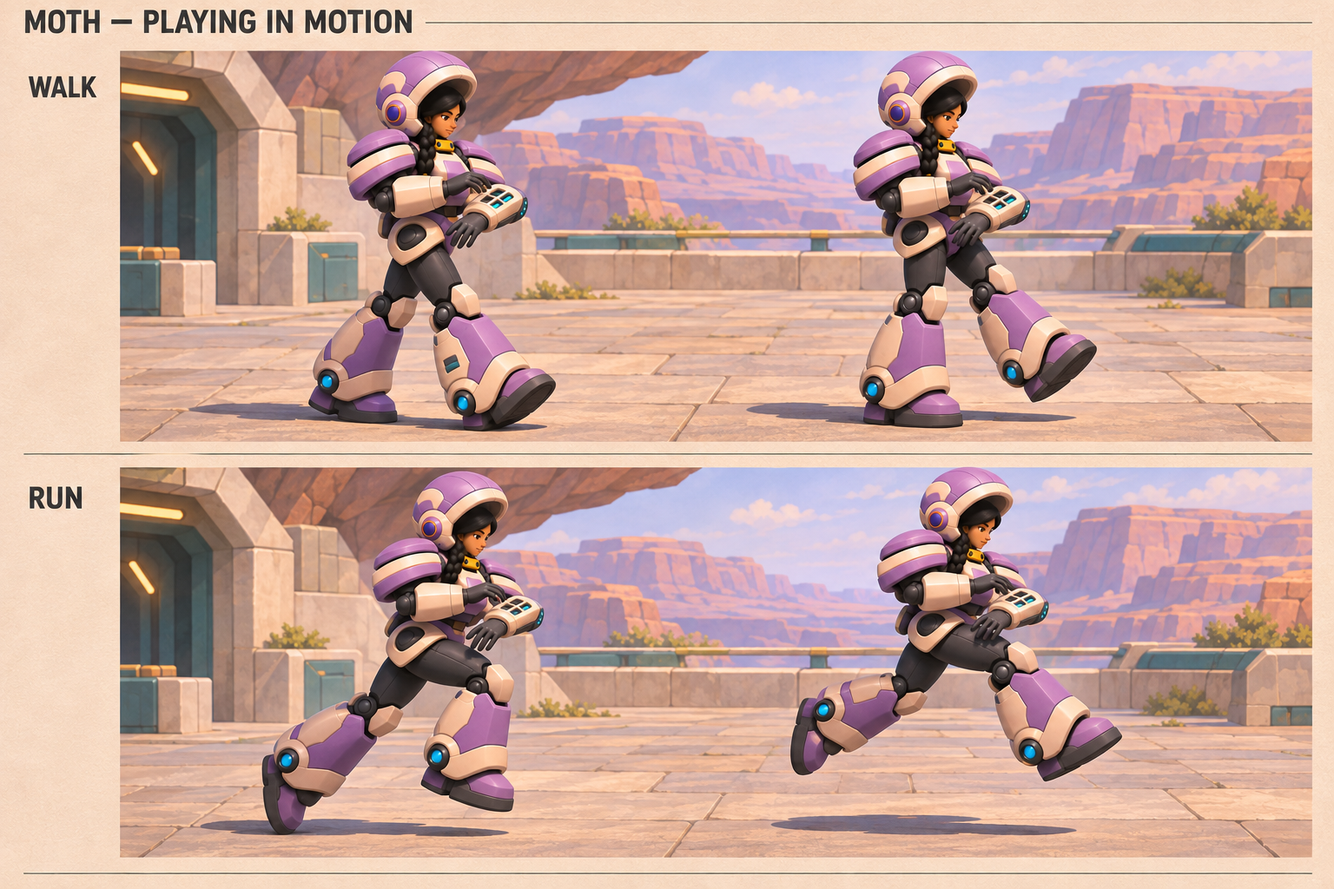
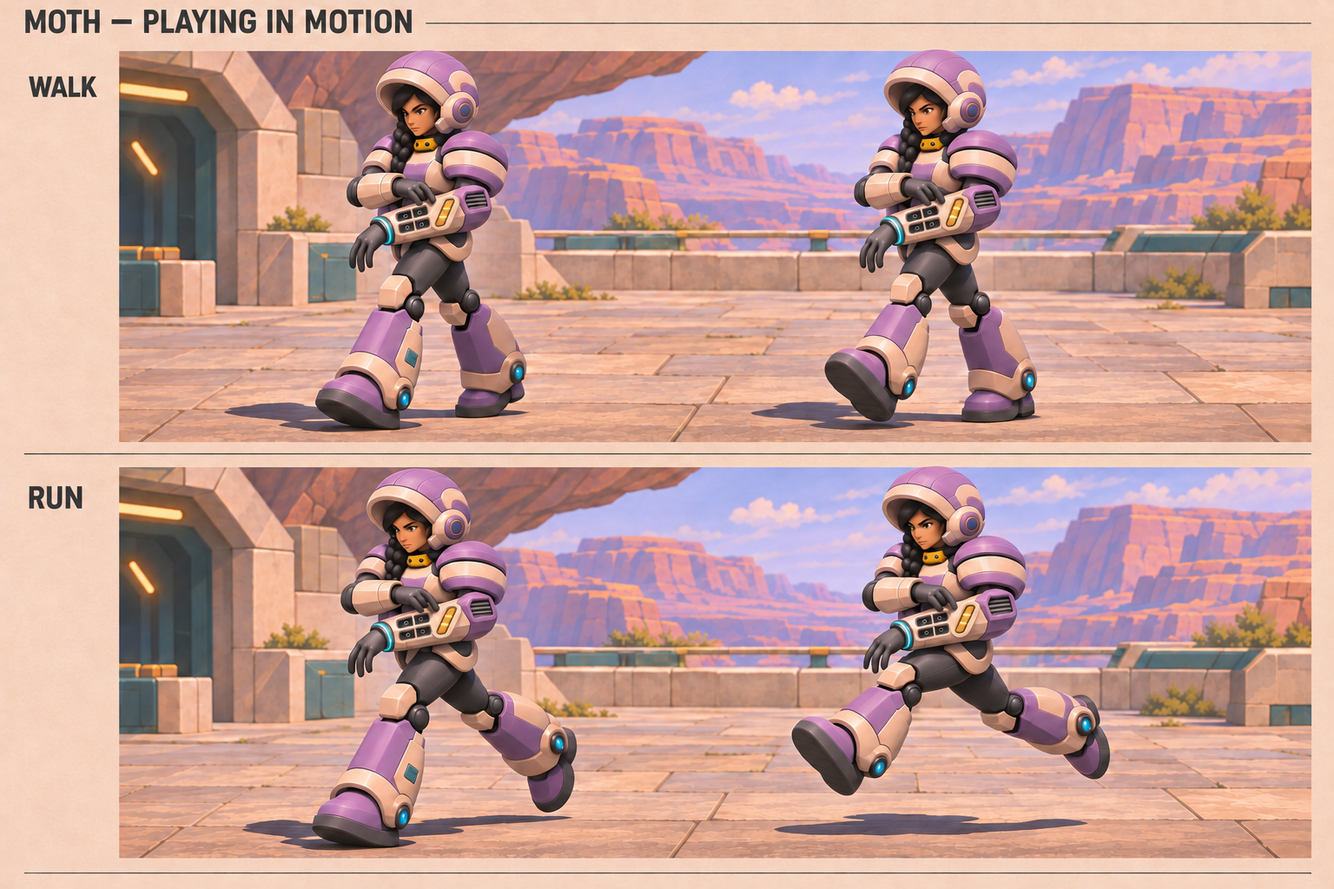
art: resolve the Moth instrument and dance review findings
Answer Claude H1-H6 in the audit. Show the forearm opening in a transverse section, keep the playing pose across the four stance views, and show the left instrument clearly through the walk and run. Put cyan at the wrist in the playing and transition views, and show the instrument at the pilot scale off suit. Record the four-metre vent occlusion and the selected image-generation prompts.

Visually re-audited all five replacements. All nine PNGs open at 1536 by 1024, and the four passing PNGs match the reviewed commit byte for byte. Built the Release lane CLI. Scoped docs links passed all 42 references, and the duplicate scan against e7e46ae05a found zero changed declarations. The full docs check reported two citation drifts already present at that integration tip. The headless debug world start reached its 360-second deadline during the build and the adapter returned to idle.

Brief: art done

diff --git a/docs/game/art/instrument-play-pack/prompts.md b/docs/game/art/instrument-play-pack/prompts.md
@@ -149,4 +149,69 @@ The initial image was the edit target. The [off-suit turnaround](../moth-concept
 Create a revision of this PILOT FIT design-development illustration. Keep the composition's two best views, the big bare hands-on view and the small half-height scale inset only. Cut all the bottom exploded details and redundant labels. Compact existing left forearm shell. Exactly four finger-stoppable ports on the ivory shell, two rows of two. Each has a very small round dedicated center bore in its oblong recessed seat. One bare right index fingertip pad FLAT in contact sealing the tiny center bore of the top left seat, which is unlit. The other three small center bores should be visible surrounded by hairline cyan highlighting. Exactly one THREE-SEGMENT AMBER METER to the left of the four oblong recesses in the main view, with NO other amber panel lights. Keep the left sleeve and forearm continuous through wrist collar to relaxed open bare left hand. Keep warm brown adult Moth and right-cheek braid, charcoal coveralls, ochre fasteners, lavender shoulder patches, clearly unarmored wrists and fingers. Fingers natural and perfectly distinct. Five digits per hand where visible, no copies or extra limbs. Single small label 1.68 M PILOT above inset. The two views agree on shell shape and proportion.
 ```
 
+## Constraint review revisions
+
+These edits used the built-in image tool after the Claude constraint review.
+The prompts below are the edit chains that produced the selected images.
+
+### Instrument
+
+The reviewed instrument sheet was the edit target. The transverse cut replaced the longitudinal cutaway.
+
+```text
+Image 1, the original INSTRUMENT sheet, is the edit target. Exact local replacement of the bottom-left diagram only. Retain upper OUTER FACE with its squat proportions and angled amber meter, upper WRIST END, upper REAR 3/4, and lower OFF and ACTIVE as is. Replace bottom-left SIDE SECTION with a large TRANSVERSE SECTION across the forearm at the elbow-side blower, looking down its axis from the wrist. In the new illustration use the upper-middle WRIST END shape and proportions as the tracing template, the tall rounded bevel around a single generous round through-opening. Draw ONE fully enclosed cross-section like a cross-section of a hollow sleeve: painterly lavender and ivory material around the outside, neutral parchment showing through a single large empty circular center, thin black inner lining fully separating the central circle from the cut material. The central circle has a neat small label FOREARM CLEARANCE. In the extra material above the circle, just outside the black inner lining of the forearm bore, include one small embedded blower cross section and adjacent embedded narrow duct cross section in cross-hatched wall material. The bore takes most of the area and neither duct nor blower crosses it. Add two thin leader lines with labels BLOWER and DUCT pointing to those parts of the wall. No second end-on insert, no longitudinal exterior silhouette, no second egress or opening. Section cut here does not need to depict the amber bar that is unchanged in the upper exterior views. Plenty of breathing room around the reshaped section, with caption TRANSVERSE SECTION. Preserve the other five views of the original sheet and the same linen artwork.
+```
+
+### Playing stance
+
+The reviewed stance sheet was the first edit target. The reviewed instrument supplied the shell. Each subsequent edit used the sheet produced by the preceding prompt.
+
+```text
+Image 1 is the edit target, image 2 supplies the device shape and wrist placement. Keep the exact original Moth suit, painterly toon shading, linen presentation, camera and composition except where specified. Her right-cheek braid emerges only through the hood opening. Her forearm wind instrument is on her anatomical LEFT only. Along that arm, from the left elbow to the left hand, the sequence is purple louvred air intake, narrow three-segment amber breath meter, exactly four dark recesses in a 2 by 2 rectangular deck, a fine cyan cuff ring immediately touching the root of the glove, then her left hand. The cyan ring embraces the left wrist opening, never near the elbow or on the standard right gauntlet. Regenerate the four existing columns as one physical locked pose viewed by rotating the camera, with no pose variations. Literal captions FRONT, LEFT PROFILE, BACK, CHASE 4 M. The suit and both feet stay in the same narrow comfortable stagger with both soles planted. The frontal pose matches the intent of the original front: left elbow down and to her left below the shoulder, left forearm spanning diagonally inward across the breastplate toward her center and across it, held very close to the breastplate, and her right forearm spanning inward above it with two right fingertips touching two vents. Arms below chin. In the FRONT image the instrument starts under the shoulder on image right, then ends in cyan at her left wrist and free left glove close to the center of the body. LEFT PROFILE is viewed from her anatomical left, facing image left, and represents the exact first pose turned 90 degrees. Since both forearms span side to side across her chest, they must appear dramatically foreshortened in profile, almost end-on, compactly held against the front of the breastplate. The left hand and deck may occlude each other depthwise. Neither arm sticks forward as a pointing gesture. The BACK orthographic and the smaller CHASE 4 M on warm canyon paving see exactly the same arm pose from behind, hips, feet and shoulders same rotation as the turnaround. Chase view offset just slightly to her left, high enough for the original gallery ground perspective. The vent deck is largely or entirely occluded by the torso or left arm in the rear views. Honor occlusion; no cyan false signals on elbows, back or pack. Keep the original four-view sheet and character style.
+```
+
+```text
+Image 1 is the edit target. Image 2 shows the instrument finish. Preserve all poses, body silhouettes, captions, pagination, chase view and canyon exactly. The existing FRONT and LEFT PROFILE now show the same tucked left forearm from two cameras. Refine only the little hand-and-instrument region in those two views. FRONT: add the one narrow three-segment AMBER breath meter in the small ivory strip between lavender louvred elbow intake and the 2x2 vent deck. Keep the cyan ring directly adjacent to the free left glove. Lower the right index finger a few millimetres so its pad clearly meets the nearer dark vent seat while the rest of her hand stays poised above. Keep the free left hand intact. LEFT PROFILE: retain the compressed end-on geometry of the pose tucked across the chest. Show its matching tiny amber meter in foreshortening between the intake and the four-port deck, cyan on the distal wrist end, and only where it naturally peeks out, a small visible edge of the same free left glove extending beyond the cyan cuff. The right fingertips overlap/contact that same deck. Do not extend either arm away from her chest. Keep the original lovely lavender-ivory toon rendering and clean charcoal joints. BACK and CHASE 4 M show the identical pose with the vent deck appropriately hidden by her torso and upper arm.
+```
+
+```text
+Image 1 is the edit target. Add one very small, visible diagonal strip of gold with three pale amber segments to the FRONT view only. Put it on the upper ivory bevel of the LEFT forearm instrument, directly between the lower edge of the purple intake at image x=298 y=295 and the upper two vents around x=255 y=325. The meter must read as a small gold line around x=272 y=311 right below the purple intake. If needed, reserve a few more pixels of ivory between the intake and vent deck. Keep intact the cyan wrist ring immediately at the root of the free left glove, the tucked forearms, the right fingertip touching the deck, two boots, all poses, the LEFT PROFILE with its existing amber bar, all captions, framing and the unchanged canyon view. Restrict changes to that tiny patch of ivory. The image size is 1536x1024.
+```
+
+### Playing in motion
+
+The reviewed motion sheet was the first edit target. The reviewed instrument supplied the shell. Each subsequent edit used the sheet produced by the preceding prompt.
+
+```text
+Image 1 is the edit target; image 2 supplies the instrument geometry. Keep the exact original Moth suit, painterly toon shading, linen presentation, camera and composition except where specified. Her right-cheek braid emerges only through the hood opening. Her forearm wind instrument is on her anatomical LEFT only. Along that arm, from the left elbow to the left hand, the sequence is purple louvred air intake, narrow three-segment amber breath meter, exactly four dark recesses in a 2 by 2 rectangular deck, a fine cyan cuff ring immediately touching the root of the glove, then her left hand. The cyan ring embraces the left wrist opening, never near the elbow or on the standard right gauntlet. Keep the two wide canyon WALK and RUN strips, two full figures in each, same lighting, heel contact and planted support in WALK, trailing toe push and airborne split stride in RUN. Regenerate all four figures from FRONT LEFT THREE-QUARTER, with face, sternum, knees and travel directed toward IMAGE LEFT and slightly toward camera. Her left shoulder is nearest camera on the image right of her chest. The near left upper arm visibly connects that shoulder to the outer elbow on image right, and the arm holding the instrument crosses in front of the chest toward image left, with gloved left fingers extending down from its thin CYAN WRIST RING at the image-left end. Let us trace it continuously: near image-right left shoulder -> near left elbow -> instrument -> cyan ring -> free left hand. The other (far) right upper arm comes down from the far shoulder on image left. Its intact original plain cream forearm crosses inward from image left above the instrument with two right fingertips visibly contacting the upper two dark seats on the deck. Distinguish elbow, cuff, wrist and hand on each side. Keep her right fingers on the vents in all frames and preserve the walk versus run motion and believable foot shadows. Do not simply horizontally flip existing figures, rebuild perspective/laterality with the exact same suit and thick right-cheek braid.
+```
+
+```text
+Image 1 is the sheet to edit, image 2 is the hardware reference. Keep the exact clearly readable left-side three-quarter figures, both strips, staging, foot phases, hands, ground shadows and layout. Correct only the small amber meter position in the four visible left instruments. At present left to right in each figure you see glove, cyan at wrist, amber meter, four dark seats, purple elbow louvres. Swap the positions of the amber meter and vent deck along the arm, so in each figure the sequence from IMAGE LEFT to IMAGE RIGHT is now free left glove, narrow cyan ring at glove root, the 2-by-2 deck of four oblong dark seats, one short three-segment amber meter, then the lavender elbow piece with louvred intake. In particular the patch directly to the right of the cyan ring is occupied by the deck, with no amber between them. The amber meter is immediately LEFT of the louvres and immediately RIGHT of the deck. Keep the far right hand contacting the upper seats from above in all four poses, shifting its fingers a few millimeters left if necessary. Maintain clearly traceable two arms, both sleeves and gloves unchanged, no second module. Match the original unbroken outline and hard-surface painterly toon style.
+```
+
+```text
+Image 1 is the edit target. Change only the small orange meter on the left gauntlet in all four frames of MOTH PLAYING IN MOTION. Each meter looks like a square four-light grid now. Replace that square with one narrow diagonal amber bar divided into exactly THREE segments along one row. It stays in the same place as the orange square, distinct from the four charcoal vents on image left and the lavender intake on image right. Coordinate anchors on the 1536x1024 sheet for the four orange meters: x=513 y=242, x=1100 y=242, x=516 y=710, x=1117 y=711. Keep the same four poses, the hands, the cyan ring at the free left glove roots, the rest of the armor, all dark vents, the ground shadows and the entire composition. Match the reference product's narrow segmented gold bar. Image 2 shows the reference meter.
+```
+
+### Transition
+
+The reviewed transition sheet was the edit target. The reviewed instrument supplied the shell.
+
+```text
+Image 1 is the edit target; image 2 supplies the device. Keep the exact original Moth suit, painterly toon shading, linen presentation, camera and composition except where specified. Her right-cheek braid emerges only through the hood opening. Her forearm wind instrument is on her anatomical LEFT only. Along that arm, from the left elbow to the left hand, the sequence is purple louvred air intake, narrow three-segment amber breath meter, exactly four dark recesses in a 2 by 2 rectangular deck, a fine cyan cuff ring immediately touching the root of the glove, then her left hand. The cyan ring embraces the left wrist opening, never near the elbow or on the standard right gauntlet. Make a focused local continuity correction to the instrument on TRANSITION. Keep the four silhouettes, expression, typography, arrows, shadows, lighting and grounded foot poses verbatim. In PLAY and RESUME only, the old three cyan dots on the broad dark trim next to her left elbow at IMAGE RIGHT disappear and become charcoal. Draw one slim cyan wrist ring directly touching the narrow root of her FREE left glove toward IMAGE LEFT, around the circumference at the glove exit, never a ring at the broad elbow end. Add the tiny dark louvred intake on lavender at the elbowward end and the amber bar between intake and four vents. Preserve the fingers of the opposing plain right hand where they meet the deck, and preserve the four cream-ribbed vent seats. Apply the same correct device order to RELEASE and CHECK where visible, following their original wrist openings and arm positions: her free left hand there is to IMAGE RIGHT of her elbow, so here cyan must be at the IMAGE RIGHT cuff at the root of her left glove. No light at any elbow. One left instrument per figure. Preserve all four original articulated poses.
+```
+
+### Off-suit pilot
+
+The reviewed pilot sheet was the first edit target. The second prompt used the resulting sheet as its edit target. The reviewed instrument supplied the shell in both calls.
+
+```text
+Image 1 is the edit target; image 2 shows the correct elbow-to-wrist instrument design. Keep the exact art, pilot, two views, angle and typography of PANEL 9 — PILOT FIT. Repair the pilot-sized instrument, a smaller version of the same design worn on her LEFT forearm over the charcoal sleeve. In the large view the elbow is visibly UPPER RIGHT and the exposed open left palm is LOWER LEFT. Along the upper plane of the arm, from UPPER RIGHT toward LOWER LEFT, show a small lavender shoulder at the elbowward end with charcoal intake louvres; then one three-segment amber breath bar; then the ivory deck with four charcoal seats in a 2x2 grid and one small bore each; then a thin cyan band on the annular wrist cuff immediately before her dark rib-knit sleeve and bare left hand emerge at LOWER LEFT. No cyan trim at the UPPER RIGHT end; that end is where fabric enters from the elbow. Keep the torso inset and correct the device in the same anatomical order there too (the cuff next to the warm brown bare hand, intake next to sleeve and elbow). Anchor both hands anatomically as in the reference, with the bent right index finger touching exactly one of the four small bores, palm lifted, other fingers clear, one dark bore and three small cyan bores. Natural warm brown fingers and unbroken cloth liner, continuous limbs and no doubling. Keep the exact adult pilot, her single right-cheek braid, lavender patches, high charcoal collar and gold buckles. No other changes.
+```
+
+```text
+Edit Image 1, the PILOT FIT sheet, and use Image 2 as the instrument finish reference. Keep hands, lighting, cuffs, adult pilot and all framing exactly. Make a local design repair only to the placement of the single amber meter in each view. Remove the amber meter NEXT TO THE CYAN WRIST RING in both views, restoring ivory there. Add it at the OPPOSITE end of the ivory face, immediately below the purple intake on the ELBOW side of the four-vent deck. In the large view, make it a small shallow diagonal amber bar fitted in the vacant ivory area between the underside of the purple intake (at about x=880 y=410) and the top-right vent (around x=865 y=475). Leave open ivory between the 2x2 vents and the cyan wrist ring, and no amber anywhere near the wrist. In the inset put the short amber bar at the elbow edge of the four vents, directly next to the louvres, above and to the right of the vent group, nowhere near the cyan ring. Make it narrow enough for the original design geometry. Sequence along arm from elbow to palm: intake, amber, four vents, cyan, hand. Preserve the pad touching and sealing the dark bore, other three glowing, and preserve the actual four black seats. Perfectly seamless original material.
+```
+
 [Concept pack](README.md)

diff --git a/docs/game/art/instrument-play-pack/review.md b/docs/game/art/instrument-play-pack/review.md
@@ -1,37 +1,38 @@
 # Moth instrument and dance visual audit
 
-Codex generated and judged the nine sheets against the
-[concept art review](../README.md#concept-art-review) and
-[instrument and dance brief](../../../plans/instrument-play.md#the-concept-art-brief).
-The lead's independent Claude constraint check is pending. The range,
-camera distance and scale labels are targets for the rig and camera checks
-in the implementation plan.
+Codex judged the nine sheets against the concept art criteria. Claude completed
+the independent constraint review of the original pack. Fingering, dance
+stance, signature moves and stage distance passed every hard constraint.
+The table below answers the six findings on the other five sheets. Codex
+re-audited their replacements. The range, camera distance and scale labels
+are targets for the built rig and camera checks.
+[Concept art review](../README.md#concept-art-review) ·
+[Instrument and dance brief](../../../plans/instrument-play.md#the-concept-art-brief)
 
 ## Artist verdicts
 
 | Panel | Attachment, range and physical coherence | Turnaround, perspective, seams and fixed facts |
 |---|---|---|
-| [Instrument](instrument.png) | The material wraps the forearm around a through-opening. The intake enters the blower and one continuous duct leads to the outlet, branching to four finger bores. The wrist collar has room for the open hand beyond it. | The outer face and oblique view keep the two divided recesses, elbow intake and low outlet together. The section has its own frame and clear wall edges. Matching off and active views keep the four cyan rims and the amber breath level distinct. |
-| [Playing stance](playing-stance.png) | Both boots stay down with the hips between them. The elbows have room below the shoulder stacks, the left hand clears its wrist collar and the right fingers approach from above. | The same hood, right-cheek braid, shoulder stack and two back pods carry between the views. The front, profile and back share a baseline. The chase view has ground-plane depth and the cyan vent deck clears the left shoulder silhouette. The four views have discrete frame edges. |
+| [Instrument](instrument.png) | The transverse section shows the elbow-side blower and duct above a lined, circular forearm opening. Both fit outside the lining. The opening aligns with the open wrist collar, leaving room for the wrist and glove. | The wrist-end view and transverse section show the same shell in perspective and in a flat cut. The exterior views establish the squat proportions, diagonal amber bar and four seats. Hatched edges distinguish the section from the opening. Matching off and active views distinguish the power ring from the vent lights and breath meter. |
+| [Playing stance](playing-stance.png) | The hips stay between the planted boots. Both elbows fit beneath the shoulder stacks. The free left glove clears the cyan ring and the right fingertips meet the deck from above. In profile the left hand recedes behind the near arm. | The left profile foreshortens the same forearms held across the chest. The hood, right-cheek braid, shoulder stacks and two back pods agree across the turnaround. Shared ground contact ties the first three views together. The small chase figure sits on the canyon paving with its playing hands occluded. The four views have clean frame edges. |
 | [Fingering](fingering.png) | The six unpowered views make four single contacts and two adjacent pairs visible. Stopping fingers cover the intended bore, with adjacent fingers clear. The right hand opens at a separate wrist. The long-finger and thumb profiles mark the range at each hinge in the chain. | The charcoal segments and visible pins develop the construction sheet's open hand. Each close-up retains the same four seats, meter and outlet with consistent foreshortening. Plate edges and contact shadows distinguish the fingertip, well and bezel. |
-| [Playing in motion](playing-in-motion.png) | The walk has a heel-first contact and a planted support frame. The run pushes through a trailing toe, then clears the floor with both boots. In each frame the right hand reaches the left gauntlet and the left hand remains open. Elbow and knee pivots stay clear of their plates. | The hood, front braid, shoulder stacks and boot plates hold across a fixed side view with continued ground lines and contact shadows. The shell stays on the left arm, and the exhaust recesses and boot lights show no thrust. |
+| [Playing in motion](playing-in-motion.png) | The walk shows heel contact and planted support. The run shows a loaded forward foot and a stride with both boots clear of the floor. The near left arm runs from shoulder to instrument to free glove. The right hand reaches across and down to the deck. Elbow and knee pivots clear the plates. | The left three-quarter view preserves the hood, forward braid, shoulder stacks and boot plates. Tile lines and shadows establish the ground in both strips. The intake and wrist ring mark opposite ends of the left gauntlet throughout. Boot lights stay local, and the strip edges are clean. |
 | [Dance stance](dance-stance.png) | The left sole carries the pose, the right toe meets the floor with its heel high, and the open hands balance the broad stance. The dark dot and hollow ring in the plan match those contacts. Knees remain over the boots and the palms clear the cuffs. | The left instrument arm hangs low and the suit retains its heavy feet, hood and braid. Floor shadows meet the soles. The overhead diagram isolates the tread prints and faces in the direction of travel. |
 | [Signature moves](signature-moves.png) | The step changes support as it travels. The spin shows load, ball-of-foot pivot, boot sweep and wide reset. The leap moves from a loaded crouch through a visible gap above the ground shadow to a two-boot landing, then straightens. The arms clear the knees and the instrument stays attached through each turn. | Three rows supply four full silhouettes apiece and three separate plan diagrams with paths in beat order. The back-facing pivot preserves both pods and the returning views preserve the face opening and braid. Each shadow belongs to its own pose and the boot lights stay local. |
-| [Transition](transition.png) | The right hand lifts before the left arm drops. The forearm check separates the hands while the wide base carries the load. The last pose returns the right fingers to the deck, with room at both wrists and elbows. | The fixed front-quarter view keeps boot scale, hood rim, braid and left cuff consistent. The shadows sit on one baseline. Motion arrows lie in the gutter and leave the joints legible. |
+| [Transition](transition.png) | The right hand lifts before the left arm drops. The forearm check separates the hands while the wide base carries the load. The last pose returns the right fingers to the deck. Both wrists and elbows clear the armor. | The fixed front-quarter view keeps boot scale, hood rim and braid consistent. The left shell rotates with the forearm and the cyan ring follows the glove in every beat. The shadows share a baseline, and the arrows stay in the gutters. The revised plates meet the gloves and elbow joints at clean edges. |
 | [Stage distance](stage-distance.png) | The flat boot anchors the ready pose. The sweep has a distinct planted foot, elevated boot and counterbalancing arm. The silhouettes have space between the limbs, and their reflections and shadows start at the floor. | The crowd recedes along the court while the foreground pair retains the cream hood rim, lavender stacks and left gauntlet vent deck. The painterly stage shares the canyon and gallery palette. There is no visible edit boundary at the corrected cuffs. |
-| [Off-suit pilot](off-suit-pilot.png) | The charcoal sleeve enters the elbow end and reappears from the wrist opening, with the left palm free. Right fingertip contact darkens one bore and the other three glow. The approaching hand bends naturally at its knuckles, with space below the palm. | The main view and scale inset share the same shell proportions, single amber meter and sleeve fit. The inset preserves the adult pilot's clothes, warm brown skin and right-cheek braid. The matte wrist edge is continuous and the close view has consistent foreshortening. |
+| [Off-suit pilot](off-suit-pilot.png) | The sleeve enters at the elbow and emerges through the cyan wrist ring, leaving the left palm free. One right fingertip covers a dark bore, the other three bores glow, and the knuckles keep a natural bend with room below the palm. | The detail and inset show a pilot-sized version of the same instrument design at her scale. Both show the same intake, meter, vent deck and wrist ring. The inset preserves the adult pilot's coveralls, warm brown skin and right-cheek braid. The sleeve and cuff meet cleanly in both perspectives. |
 
-## Revisions selected
+## Answers to the constraint review
 
-The instrument, playing stance, fingering study, dance stance and stage
-distance use their second revisions. The airflow cutaway now joins the
-blower to the manifold and outlet. The chase treatment puts light on the
-actual vent deck. The fingering sheet uses an unpowered reach study to
-show contact clearly, and the stance diagram fixes the support mark and
-the order of the footprints. The stage revisions remove misplaced vent
-decks. The first revision of the bare-hand sheet gives the touching finger
-one small bore and keeps a single breath meter. The walking and running
-strips, signature moves and transition use their initial images.
+| Finding | Revision and check |
+|---|---|
+| H1. Forearm clearance and OFF state | A transverse cut through the blower shows the open forearm bore, with both the blower and duct contained in the outer wall. The exterior views establish the squat proportions and diagonal amber placement. The README identifies the cyan ring in OFF as the module power light. |
+| H2. Four-metre playing pose | The chase view shows the tucked playing pose from behind the left shoulder. The arms stay in front of the chest, with the right hand at the deck as the front view shows. The torso and arm hide the vents from this angle. The README records the result for the built chase camera check. |
+| H3. Turnaround and profile caption | FRONT shows the forearms across the chest. LEFT PROFILE looks along the same forearms, foreshortening them against the chest. The left side of the suit is nearest the camera and she faces image left. |
+| H4. Playing arm during locomotion | Both strips now show the Moth travelling image left from the front left quarter. In every frame the visible left arm leads through the shell and cyan ring to the free left glove. The right arm crosses to the deck. |
+| H5. Wrist ring position | The cyan ring sits at the glove opening in FRONT, LEFT PROFILE and all four transition beats. The left gauntlet runs from louvres through amber meter and four vents to cyan at the wrist. Rear-view occlusion hides the ring where the torso and upper arm cover it. |
+| H6. Pilot fit and orientation | Both pilot views put the louvred intake at the elbow, then the amber meter and deck, with cyan at the wrist. The pilot wears a smaller version of the design over her sleeve, shown at her scale. |
 
 The closer sheets are the reference for fingertip contact and cuff
 construction. Read the chase and crowd sheets for silhouette and light

diff --git a/docs/game/art/instrument-play-pack/README.md b/docs/game/art/instrument-play-pack/README.md
@@ -12,15 +12,15 @@ modules and deep teal supports of the [Canyon Workshop direction](../valley-and-
 
 | Panel | Use it for |
 |---|---|
-| [1. Instrument](instrument.png) | Outer face, wrist opening and rear-quarter views of the shell, a cutaway for the air route, and a matched view of the lights off and active. |
-| [2. Playing stance](playing-stance.png) | Hand approach from front and profile, the back of the suit, and the vent signal at an illustrative four-metre chase view. |
+| [1. Instrument](instrument.png) | Outer face, wrist opening and rear-quarter views, a transverse section for forearm clearance, and matched off and active views. |
+| [2. Playing stance](playing-stance.png) | The same tucked playing pose from the front, left, back and an illustrative four-metre chase view. |
 | [3. Fingering and joint range](fingering.png) | One- and two-finger stops, the open armored hand and proposed joint arcs. |
 | [4. Playing in motion](playing-in-motion.png) | The same upper-body playing frame during a walk and a run, with distinct ground contacts and an airborne stride. |
 | [5. Dance stance](dance-stance.png) | A broad ready pose with one loaded boot and a light toe contact, seen in perspective and from above. |
 | [6. Signature moves](signature-moves.png) | Four beats apiece for a travelling step, spin strike and leap finish, with their paths viewed from above. |
 | [7. Transition](transition.png) | How the right hand releases the vents before a forearm check, then returns to play. |
 | [8. Stage distance](stage-distance.png) | Ready and strike silhouettes against a crowd on a bright floor. |
-| [9. Off-suit pilot](off-suit-pilot.png) | Fingertip contact with the same worn shell, sized against the adult pilot. |
+| [9. Off-suit pilot](off-suit-pilot.png) | Fingertip contact with a pilot-sized version of the same design, shown at her scale. |
 
 The [generation prompts](prompts.md) record the source images and the built-in
 image tool. The [written audit](review.md) tracks the visual checks and the
@@ -31,15 +31,16 @@ independent constraint review.
 Reuse the squared left gauntlet and its two outer vent recesses. An ivory rib
 divides each recess into two fingertip seats. A small bore in each seat takes
 one finger pad to seal. The raised cuffs leave the wrists clear. A blower in
-the elbowward end takes air through the baffled intake and feeds the four
-vents and the forward acoustic outlet. The long outlet slit sits below the
-finger deck, clear of the wrist opening. Keep the original right gauntlet.
+the elbowward end takes air through the louvred intake and feeds the vents
+and the acoustic outlet below the finger deck. The blower and duct fit in
+the outer wall and leave a clear tunnel for the forearm through the shell.
+Keep the original right gauntlet.
 
 The cyan rim at each seat lights when the blower is active and its bore is
 open. Covering that bore darkens its rim while the other seats retain their
-own states. Three amber segments on the neighboring face show breath level.
-Check the rear-quarter view early, where the vent lights have to clear the
-left flank and pack while the wrists stay comfortable.
+own states. From elbow to wrist the shell carries the louvred intake, the
+three-segment amber breath bar, the two-by-two vent deck and the cyan wrist
+ring. The ring shows module power and stays lit when the blower is off.
 
 Aim the right finger pads at the bores in the left forearm's local frame.
 The right palm floats above the deck. The left hand can open and close
@@ -47,8 +48,12 @@ freely beyond the cuff. Use charcoal segments and visible pivots, keeping
 the joints clear of the cuffs at the extremes. The angle marks give a
 starting range for a rig study. The close contact and motion checks in the
 plan establish the usable range on the built hand. A sleeve liner supports
-the shell on the bare pilot's left forearm and leaves the same approach
-available to her right hand.
+the smaller shell on the pilot's left forearm and leaves the same approach
+available to her bare right hand.
+
+The torso and left upper arm hide the vent lights in the four-metre chase
+study. At that distance the pose reads before the fingering does. Check
+vent visibility with the built rig and chase camera.
 
 ## Block out the beats
 
